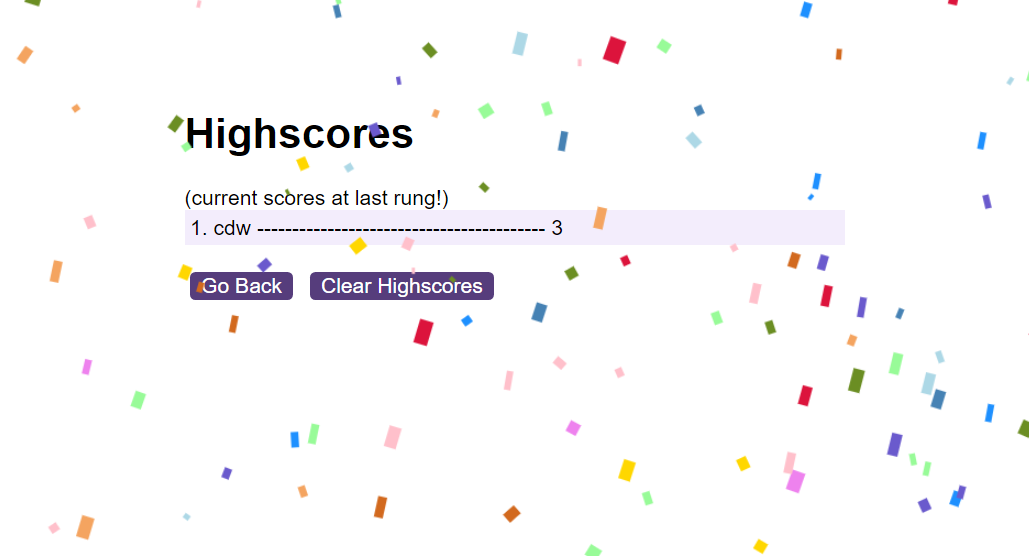
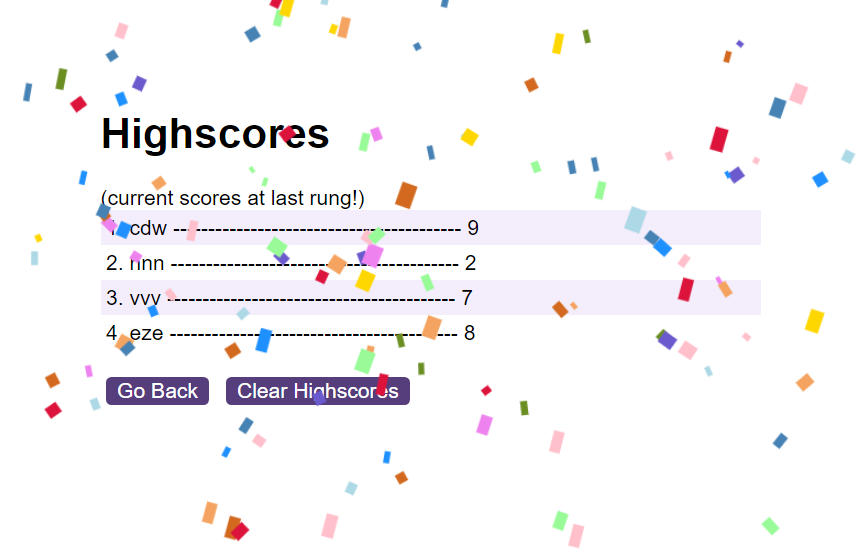
changed img, edited confetti-for top quartile only

diff --git a/assets/js/scores.js b/assets/js/scores.js
@@ -5,18 +5,15 @@
 const start = () => {
     setTimeout(function() {
         confetti.start()
-    }, 300); // 1000 is time that after 1 second start the confetti ( 1000 = 1 sec)
+    }, 300); // after time, start the confetti
 };
 
 //  for stopping the confetti 
 const stop = () => {
     setTimeout(function() {
         confetti.stop()
-    }, 3300); // 5000 is time that after 5 second stop the confetti ( 5000 = 5 sec)
+    }, 3300); // after time, stop the confetti
 };
-// after this here we are calling both the function so it works
-start();
-stop();
 
 // ------------------------- MAIN CODES ------------------------------
 var displayScore = document.querySelector("#final-score"); 
@@ -31,9 +28,19 @@ display.appendChild(document.createTextNode('(current scores at last rung!)'));
 for (let i=0; i<lastUsers.length; i++){
     console.log(lastUsers[i])
     var displayItem = document.createElement("li");
-    displayItem.textContent = lastUsers[i][0] + ' ----------------------------------------- ' + lastUsers[i]["1"];
+    displayItem.textContent = lastUsers[i][0] + ' ----------------------------------------- ' + lastUsers[i][1];
     console.log(displayItem);
-    display.appendChild(displayItem);}
+    display.appendChild(displayItem);
+
+    // gift the upperclass a confetti shower
+    if (i==lastUsers.length-1){
+        if (parseInt(lastUsers[i][1])>7){
+            console.log(lastUsers[i][1])
+            start();
+            stop();
+    }
+}
+}
 
 function clearAllLogs() {
         let node = document.getElementById("highscores")
